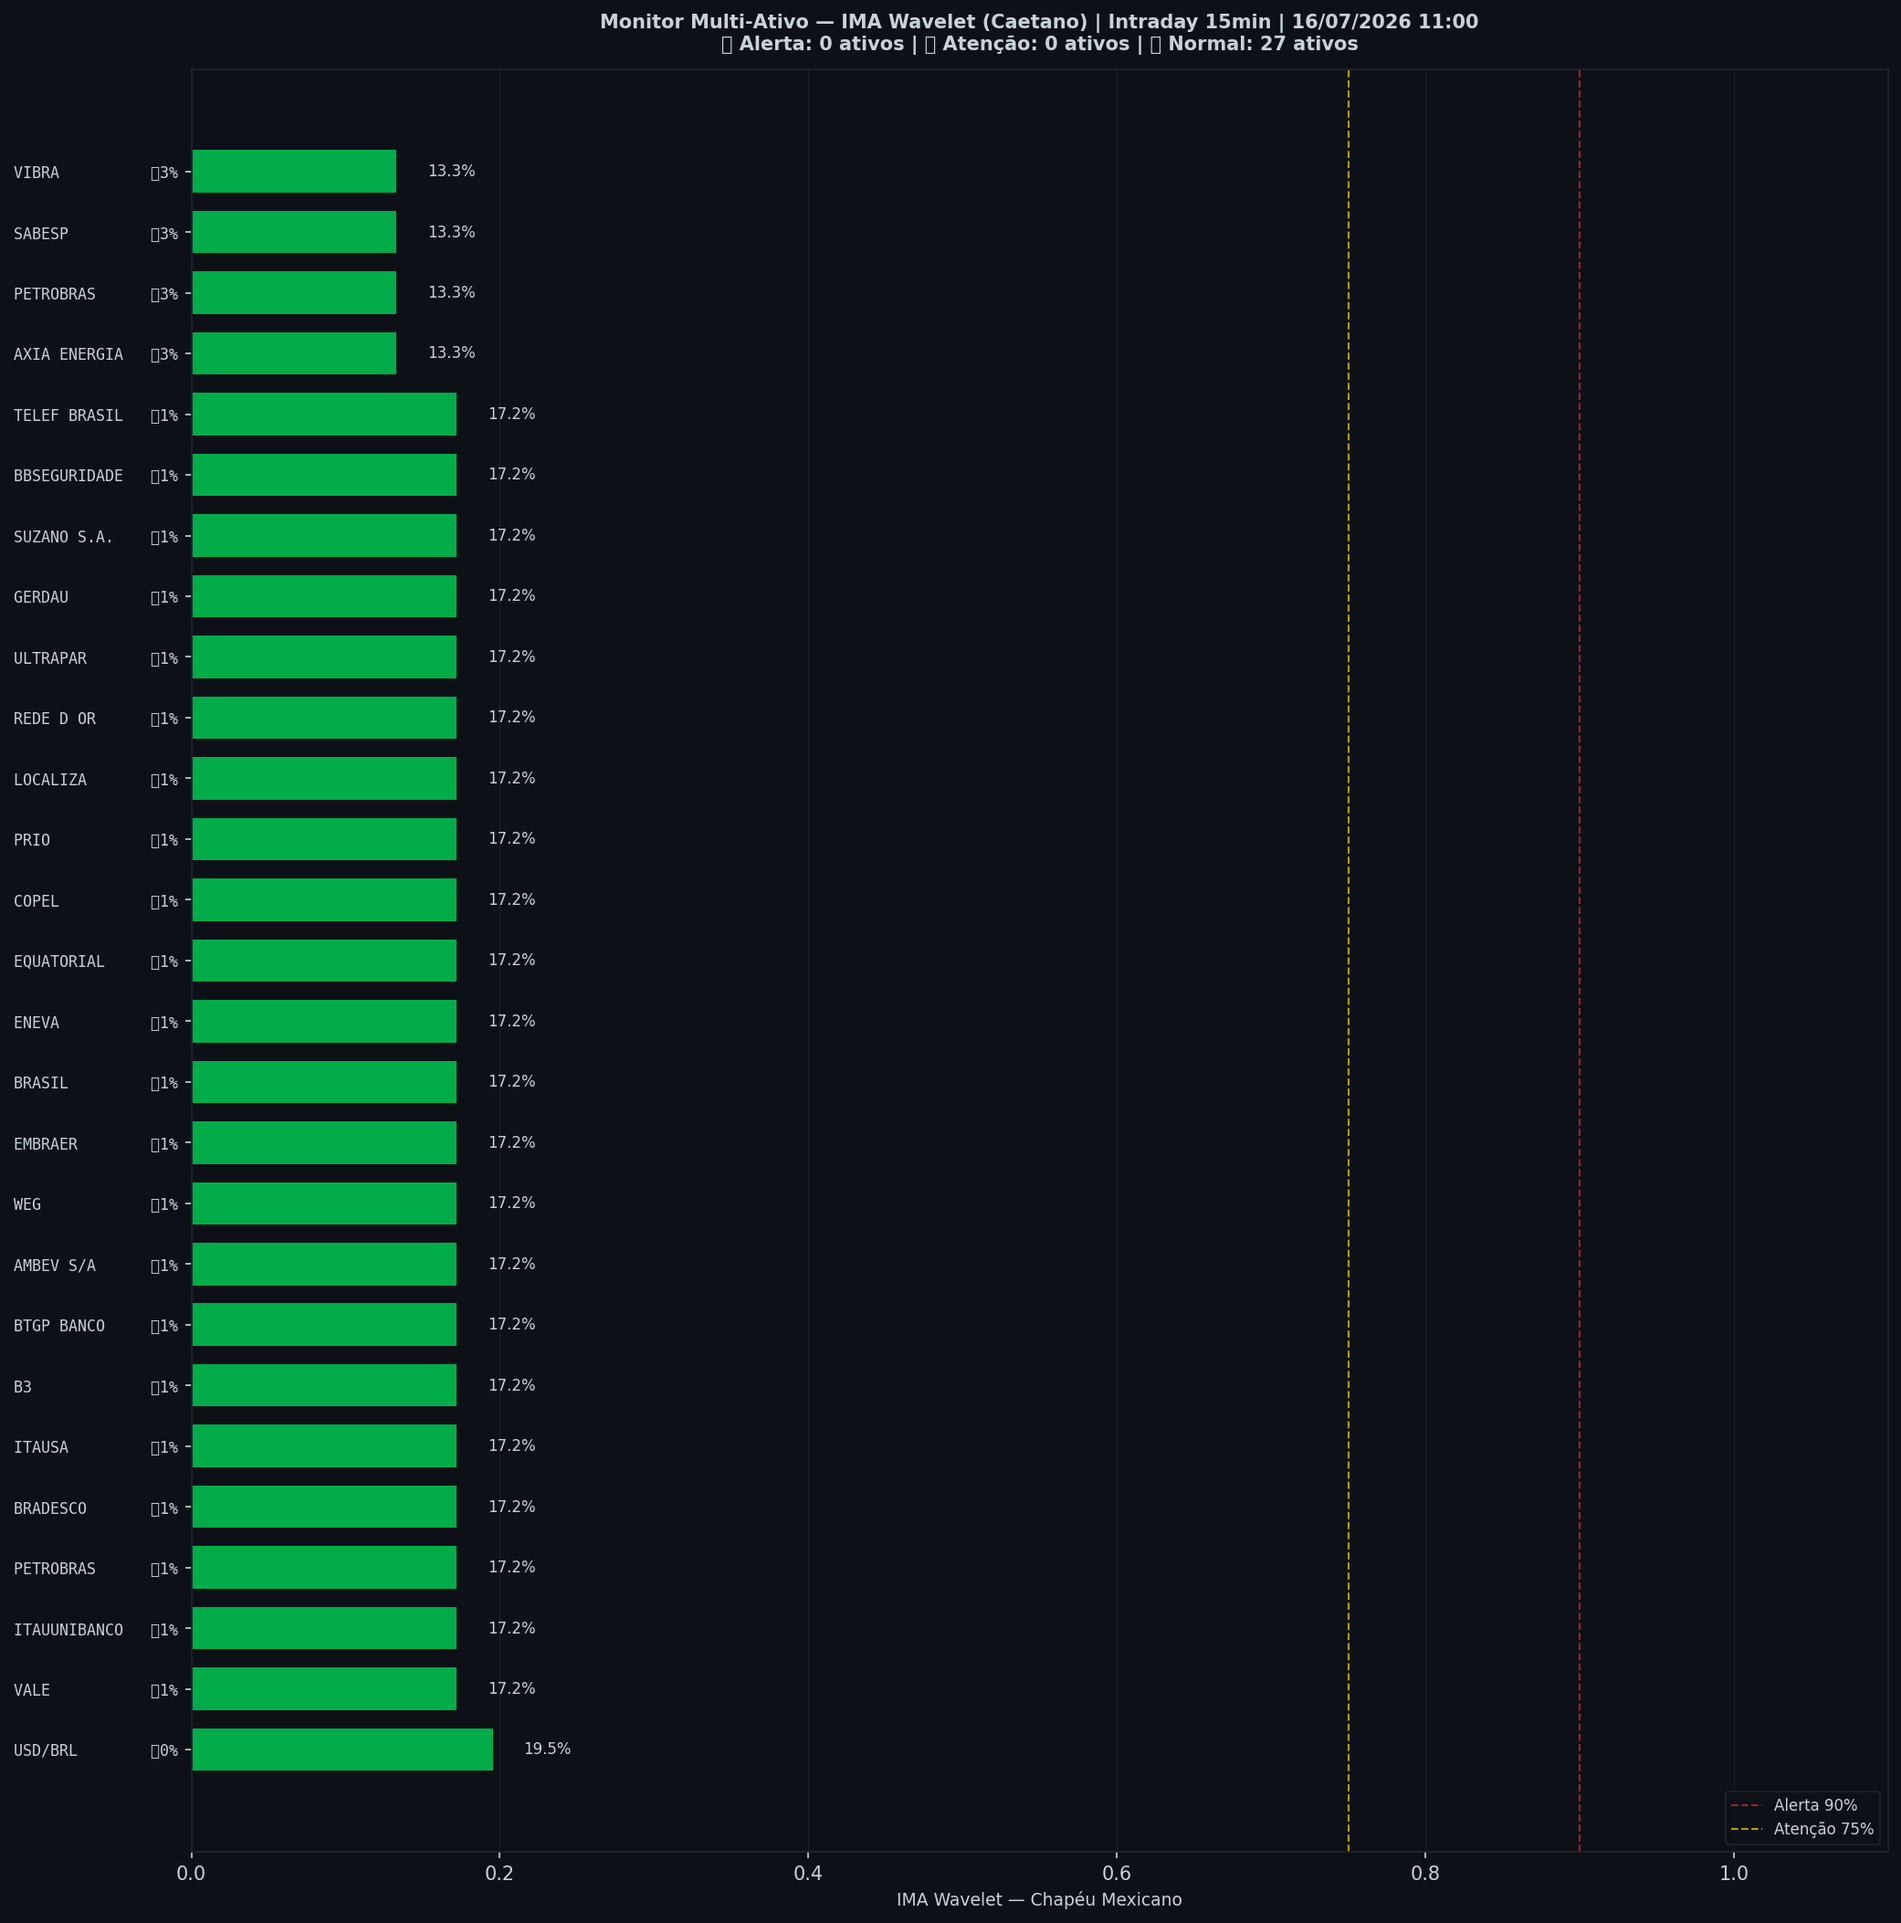
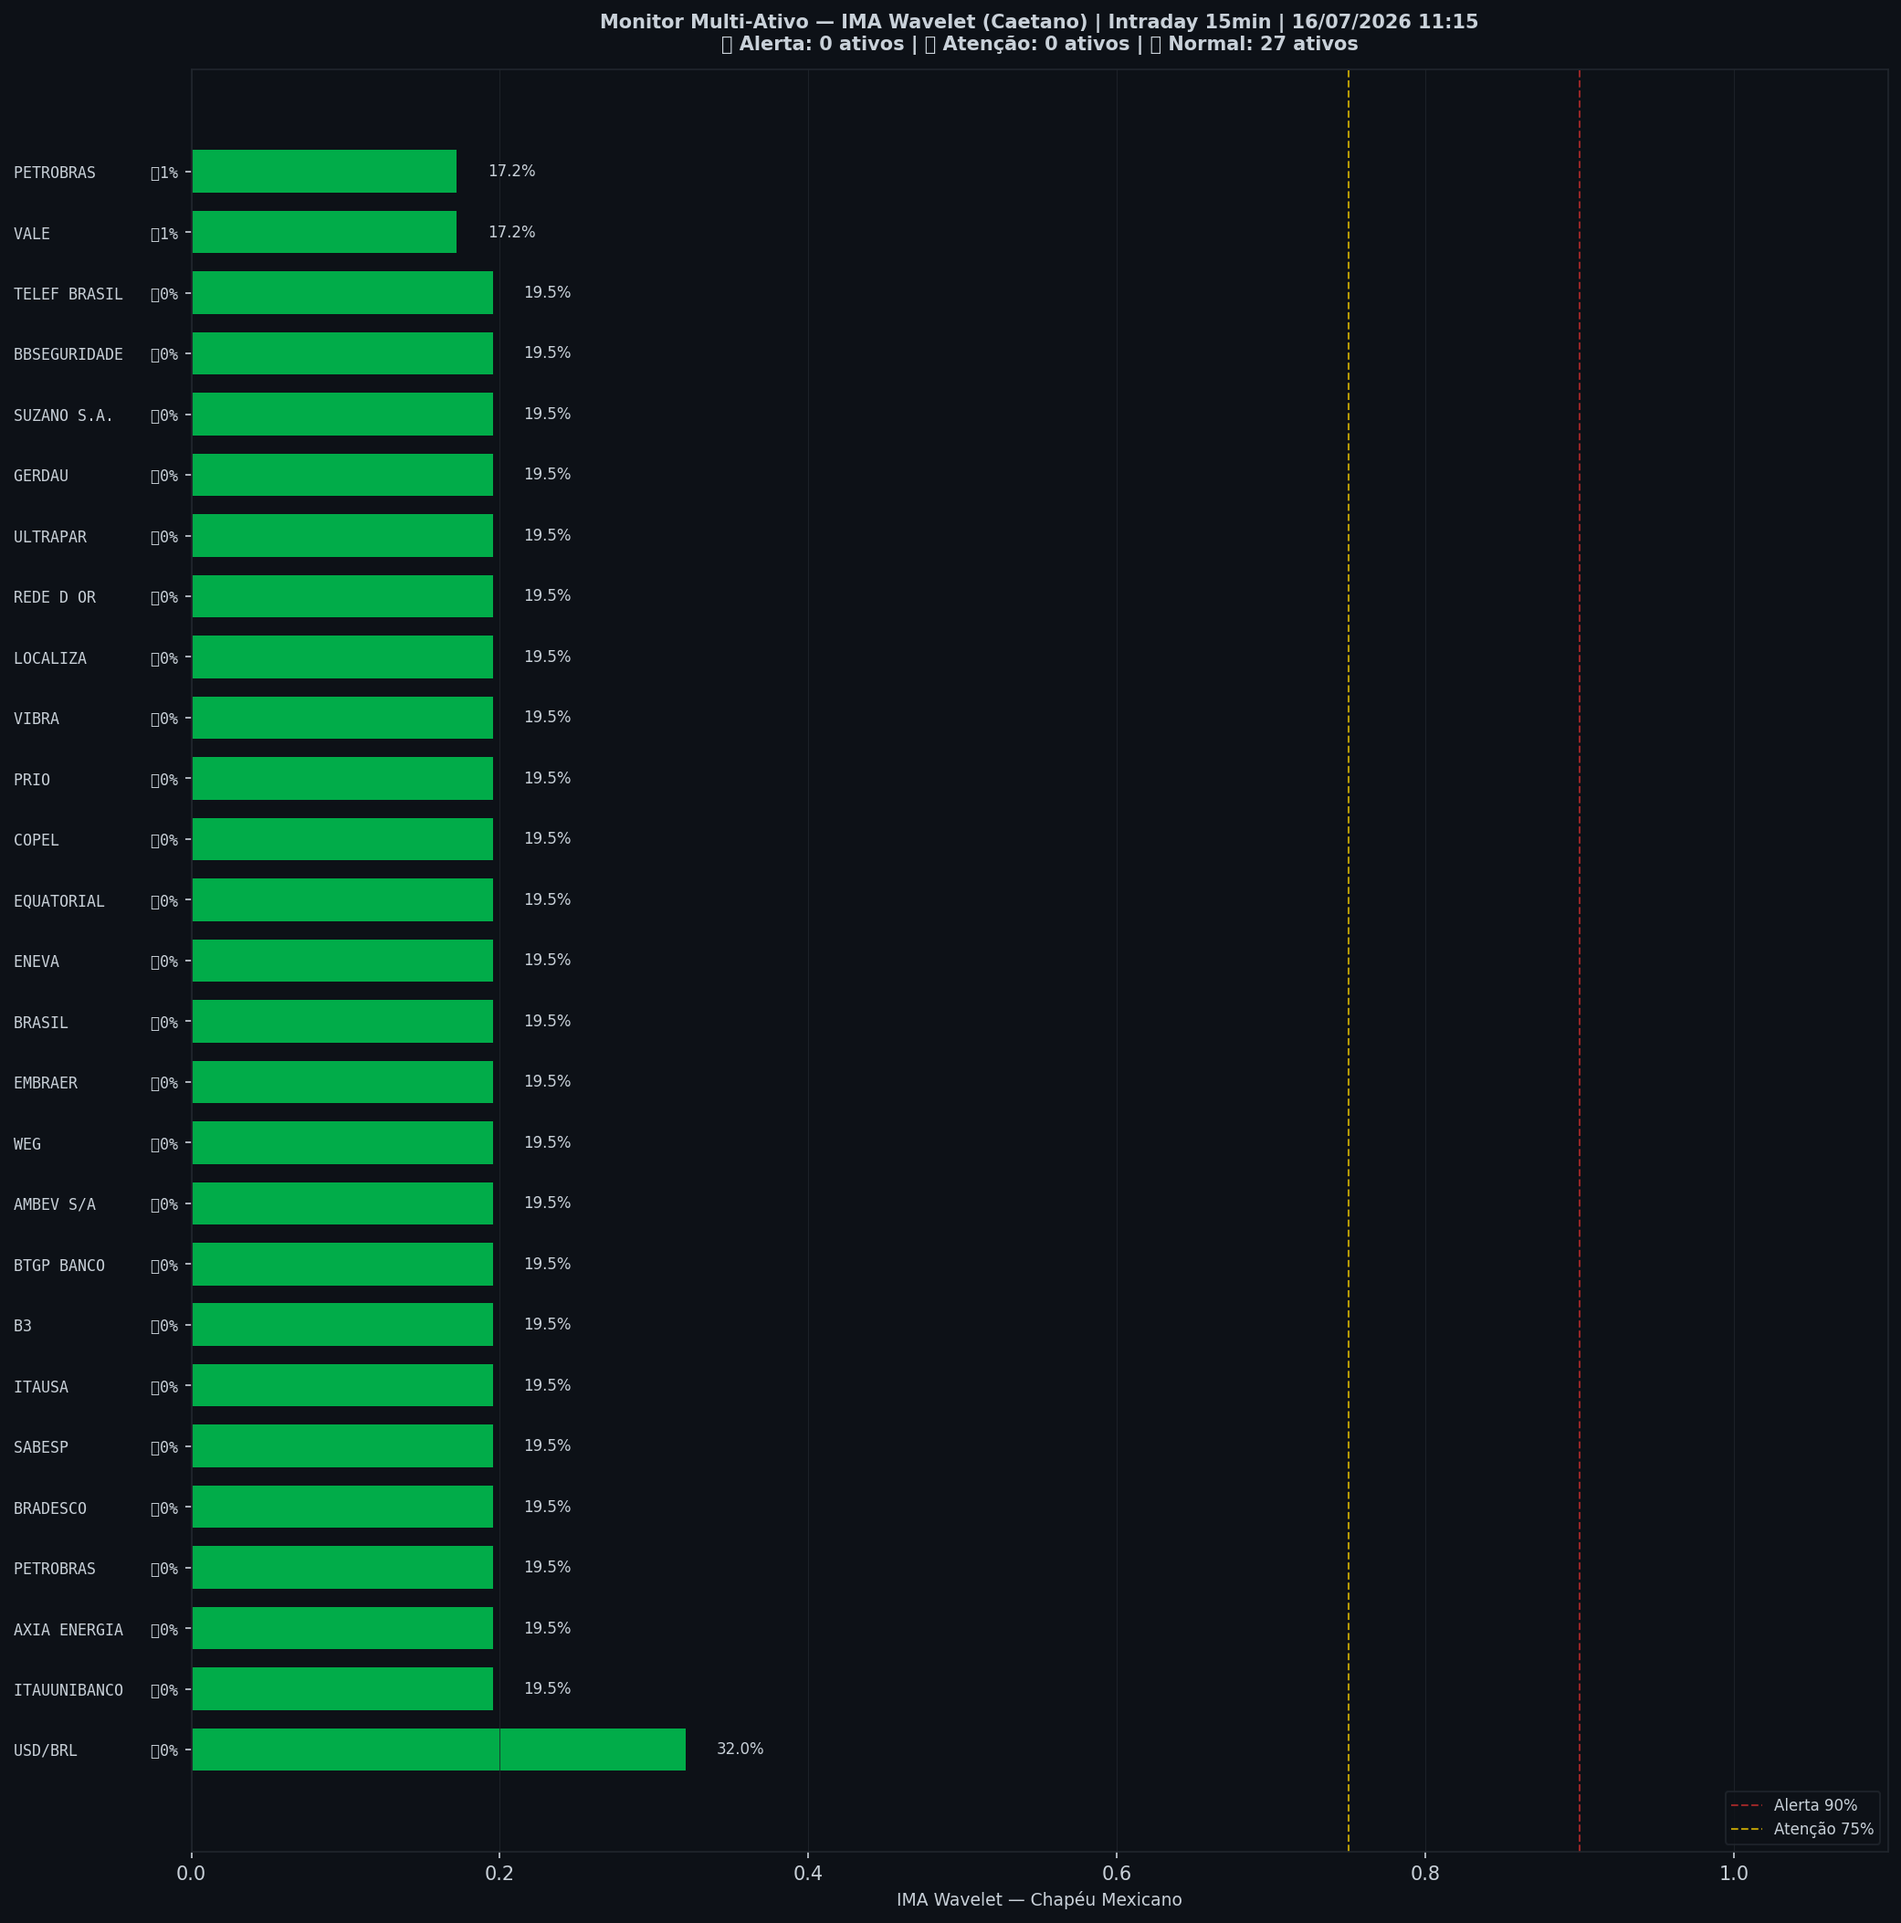
🤖 Auto: Sinal 16/07/2026 11:15

Changed region(s): [[0.1873, 0.0617, 0.3746, 0.9259], [0.0312, 0.8333, 0.0624, 0.8642], [0.0312, 0.1543, 0.0624, 0.1852]]

diff --git a/content/intraday/2026-07-16.md b/content/intraday/2026-07-16.md
@@ -1,20 +1,20 @@
 ---
-title: "🟢 Intraday 16/07/2026 10:15 BRT — VERDE"
+title: "🟢 Intraday 16/07/2026 10:30 BRT — VERDE"
 date: 2026-07-16
 tags: [intraday]
 ---
 
-> [!success] 🟢 **VERDE** — Risco 40% · ▲ +38 p.p. vs leitura anterior
-> `████████░░░░░░░░░░░░`
+> [!success] 🟢 **VERDE** — Risco 30% · ▼ -9 p.p. vs leitura anterior
+> `██████░░░░░░░░░░░░░░`
 > Mercado sem sinais relevantes de estresse.
 
 
 | Indicador | Valor |
 |---|---|
-| 🔴 ζ Crash — severidade da queda em curso | **40%** |
-| 🔵 ζ Entrada — estrutura de fundo | 2% |
+| 🔴 ζ Crash — severidade da queda em curso | **30%** |
+| 🔵 ζ Entrada — estrutura de fundo | 5% |
 | 🫧 LPPL DS-Confidence | 0% |
-| 📊 Ibovespa | 174.984 pts |
+| 📊 Ibovespa | 173.894 pts |
 
 ![Gráfico do sinal](../graficos/sinal_intraday.png)
 
@@ -22,6 +22,7 @@ tags: [intraday]
 
 | Data | Zona | Risco | IMA Crash | Entrada | LPPL |
 |---|---|---|---|---|---|
+| 2026-07-16 10:30 | 🟢 VERDE | **30%** | 30% | 5% | 0% |
 | 2026-07-16 10:15 | 🟢 VERDE | **40%** | 40% | 2% | 0% |
 | 2026-07-16 10:00 | 🟢 VERDE | **2%** | 2% | 5% | 0% |
 | 2026-07-15 16:45 | 🟢 VERDE | **56%** | 56% | 0% | 0% |
@@ -51,7 +52,6 @@ tags: [intraday]
 | 2026-07-15 10:45 | 🟢 VERDE | **12%** | 12% | 0% | 0% |
 | 2026-07-15 10:30 | 🟢 VERDE | **15%** | 15% | 0% | 0% |
 | 2026-07-15 10:15 | 🟢 VERDE | **17%** | 17% | 0% | 0% |
-| 2026-07-15 10:00 | 🟢 VERDE | **18%** | 18% | 0% | 0% |
 
 ## Monitor Multi-Ativo
 
@@ -59,37 +59,37 @@ tags: [intraday]
 
 | Zona | Ativo | Setor | IMA Crash | IMA Entrada |
 |---|---|---|---|---|
-| 🟢 | **USD/BRL** | Câmbio | 19.5% | 0.0% |
+| 🟢 | **USD/BRL** | Câmbio | 32.0% | 0.0% |
+| 🟢 | **ITAUUNIBANCO** | Financeiro | 19.5% | 0.0% |
+| 🟢 | **AXIA ENERGIA** | Energia | 19.5% | 0.0% |
+| 🟢 | **PETROBRAS** | Petróleo | 19.5% | 0.0% |
+| 🟢 | **BRADESCO** | Financeiro | 19.5% | 0.0% |
+| 🟢 | **SABESP** | Saneamento | 19.5% | 0.0% |
+| 🟢 | **ITAUSA** | Financeiro | 19.5% | 0.0% |
+| 🟢 | **B3** | Financeiro | 19.5% | 0.0% |
+| 🟢 | **BTGP BANCO** | Financeiro | 19.5% | 0.0% |
+| 🟢 | **AMBEV S/A** | Consumo | 19.5% | 0.0% |
+| 🟢 | **WEG** | Industrial | 19.5% | 0.0% |
+| 🟢 | **EMBRAER** | Outros | 19.5% | 0.0% |
+| 🟢 | **BRASIL** | Financeiro | 19.5% | 0.0% |
+| 🟢 | **ENEVA** | Energia | 19.5% | 0.0% |
+| 🟢 | **EQUATORIAL** | Energia | 19.5% | 0.0% |
+| 🟢 | **COPEL** | Energia | 19.5% | 0.0% |
+| 🟢 | **PRIO** | Petróleo | 19.5% | 0.0% |
+| 🟢 | **VIBRA** | Energia | 19.5% | 0.0% |
+| 🟢 | **LOCALIZA** | Aluguel | 19.5% | 0.0% |
+| 🟢 | **REDE D OR** | Saúde | 19.5% | 0.0% |
+| 🟢 | **ULTRAPAR** | Outros | 19.5% | 0.0% |
+| 🟢 | **GERDAU** | Siderurgia | 19.5% | 0.0% |
+| 🟢 | **SUZANO S.A.** | Papel/Celulose | 19.5% | 0.0% |
+| 🟢 | **BBSEGURIDADE** | Financeiro | 19.5% | 0.0% |
+| 🟢 | **TELEF BRASIL** | Outros | 19.5% | 0.0% |
 | 🟢 | **VALE** | Mineração | 17.2% | 0.8% |
-| 🟢 | **ITAUUNIBANCO** | Financeiro | 17.2% | 0.8% |
 | 🟢 | **PETROBRAS** | Petróleo | 17.2% | 0.8% |
-| 🟢 | **BRADESCO** | Financeiro | 17.2% | 0.8% |
-| 🟢 | **ITAUSA** | Financeiro | 17.2% | 0.8% |
-| 🟢 | **B3** | Financeiro | 17.2% | 0.8% |
-| 🟢 | **BTGP BANCO** | Financeiro | 17.2% | 0.8% |
-| 🟢 | **AMBEV S/A** | Consumo | 17.2% | 0.8% |
-| 🟢 | **WEG** | Industrial | 17.2% | 0.8% |
-| 🟢 | **EMBRAER** | Outros | 17.2% | 0.8% |
-| 🟢 | **BRASIL** | Financeiro | 17.2% | 0.8% |
-| 🟢 | **ENEVA** | Energia | 17.2% | 0.8% |
-| 🟢 | **EQUATORIAL** | Energia | 17.2% | 0.8% |
-| 🟢 | **COPEL** | Energia | 17.2% | 0.8% |
-| 🟢 | **PRIO** | Petróleo | 17.2% | 0.8% |
-| 🟢 | **LOCALIZA** | Aluguel | 17.2% | 0.8% |
-| 🟢 | **REDE D OR** | Saúde | 17.2% | 0.8% |
-| 🟢 | **ULTRAPAR** | Outros | 17.2% | 0.8% |
-| 🟢 | **GERDAU** | Siderurgia | 17.2% | 0.8% |
-| 🟢 | **SUZANO S.A.** | Papel/Celulose | 17.2% | 0.8% |
-| 🟢 | **BBSEGURIDADE** | Financeiro | 17.2% | 0.8% |
-| 🟢 | **TELEF BRASIL** | Outros | 17.2% | 0.8% |
-| 🟢 | **AXIA ENERGIA** | Energia | 13.3% | 3.1% |
-| 🟢 | **PETROBRAS** | Petróleo | 13.3% | 3.1% |
-| 🟢 | **SABESP** | Saneamento | 13.3% | 3.1% |
-| 🟢 | **VIBRA** | Energia | 13.3% | 3.1% |
 
 ![Monitor multi-ativo](../graficos/multi_intraday.png)
 
-*Página atualizada em 16/07/2026 11:00 BRT (leitura da barra de 2026-07-16 10:15 BRT).*
+*Página atualizada em 16/07/2026 11:15 BRT (leitura da barra de 2026-07-16 10:30 BRT).*
 
 > [!info]- Como interpretar (clique para expandir)
 > - **ζ Crash**: fração dos coeficientes wavelet acima do corte (Caetano & Yoneyama 2009). Escala absoluta: ζ=0,90 = 90% dos coeficientes anômalos — historicamente, quedas com ζ≥0,90 foram mais fundas e mais longas. **Mede a severidade do movimento em curso, não prevê o início da queda.**

diff --git a/content/index.md b/content/index.md
@@ -8,19 +8,19 @@ tags: [home]
 
 Monitoramento diário e intraday do Ibovespa — **IMA Wavelet** (Prof. Marco Antonio Leonel Caetano, ITA/INSPER) + **LPPL DS-Confidence** (Prof. Didier Sornette, ETH-Zurich).
 
-*Última atualização: 16/07/2026 11:00 BRT · ^BVSP · Intraday 15min · v4*
+*Última atualização: 16/07/2026 11:15 BRT · ^BVSP · Intraday 15min · v4*
 
-> [!success] 🟢 **VERDE** — Risco 40% · ▲ +38 p.p. vs leitura anterior
-> `████████░░░░░░░░░░░░`
+> [!success] 🟢 **VERDE** — Risco 30% · ▼ -9 p.p. vs leitura anterior
+> `██████░░░░░░░░░░░░░░`
 > Mercado sem sinais relevantes de estresse.
 
 
 | Indicador | Valor |
 |---|---|
-| 🔴 ζ Crash — severidade da queda em curso | **40%** |
-| 🔵 ζ Entrada — estrutura de fundo | 2% |
+| 🔴 ζ Crash — severidade da queda em curso | **30%** |
+| 🔵 ζ Entrada — estrutura de fundo | 5% |
 | 🫧 LPPL DS-Confidence | 0% |
-| 📊 Ibovespa | 174.984 pts |
+| 📊 Ibovespa | 173.894 pts |
 
 **Multi-ativo:** 0% em tensão (0🔴 0🟡 de 27 ativos)
 
@@ -32,7 +32,7 @@ Monitoramento diário e intraday do Ibovespa — **IMA Wavelet** (Prof. Marco An
 
 | Data | Zona | Risco | IMA | LPPL |
 |---|---|---|---|---|
-| [16 Jul 2026](diario/2026-07-16) | 🟢 VERDE | **40%** | 40% | 0% |
+| [16 Jul 2026](diario/2026-07-16) | 🟢 VERDE | **30%** | 30% | 0% |
 | [15 Jul 2026](diario/2026-07-15) | 🟢 VERDE | **56%** | 56% | 0% |
 
 ## Navegação

diff --git a/content/historico.md b/content/historico.md
@@ -7,6 +7,7 @@ tags: [historico]
 
 | Data | Modo | Zona | Risco | IMA | LPPL |
 |---|---|---|---|---|---|
+| 2026-07-16 10:30 | intraday | 🟢 VERDE | 30% | 30% | 0% |
 | 2026-07-16 10:15 | intraday | 🟢 VERDE | 40% | 40% | 0% |
 | 2026-07-16 10:00 | intraday | 🟢 VERDE | 2% | 2% | 0% |
 | 2026-07-14 | diario | 🟢 VERDE | 1% | 2% | 0% |
